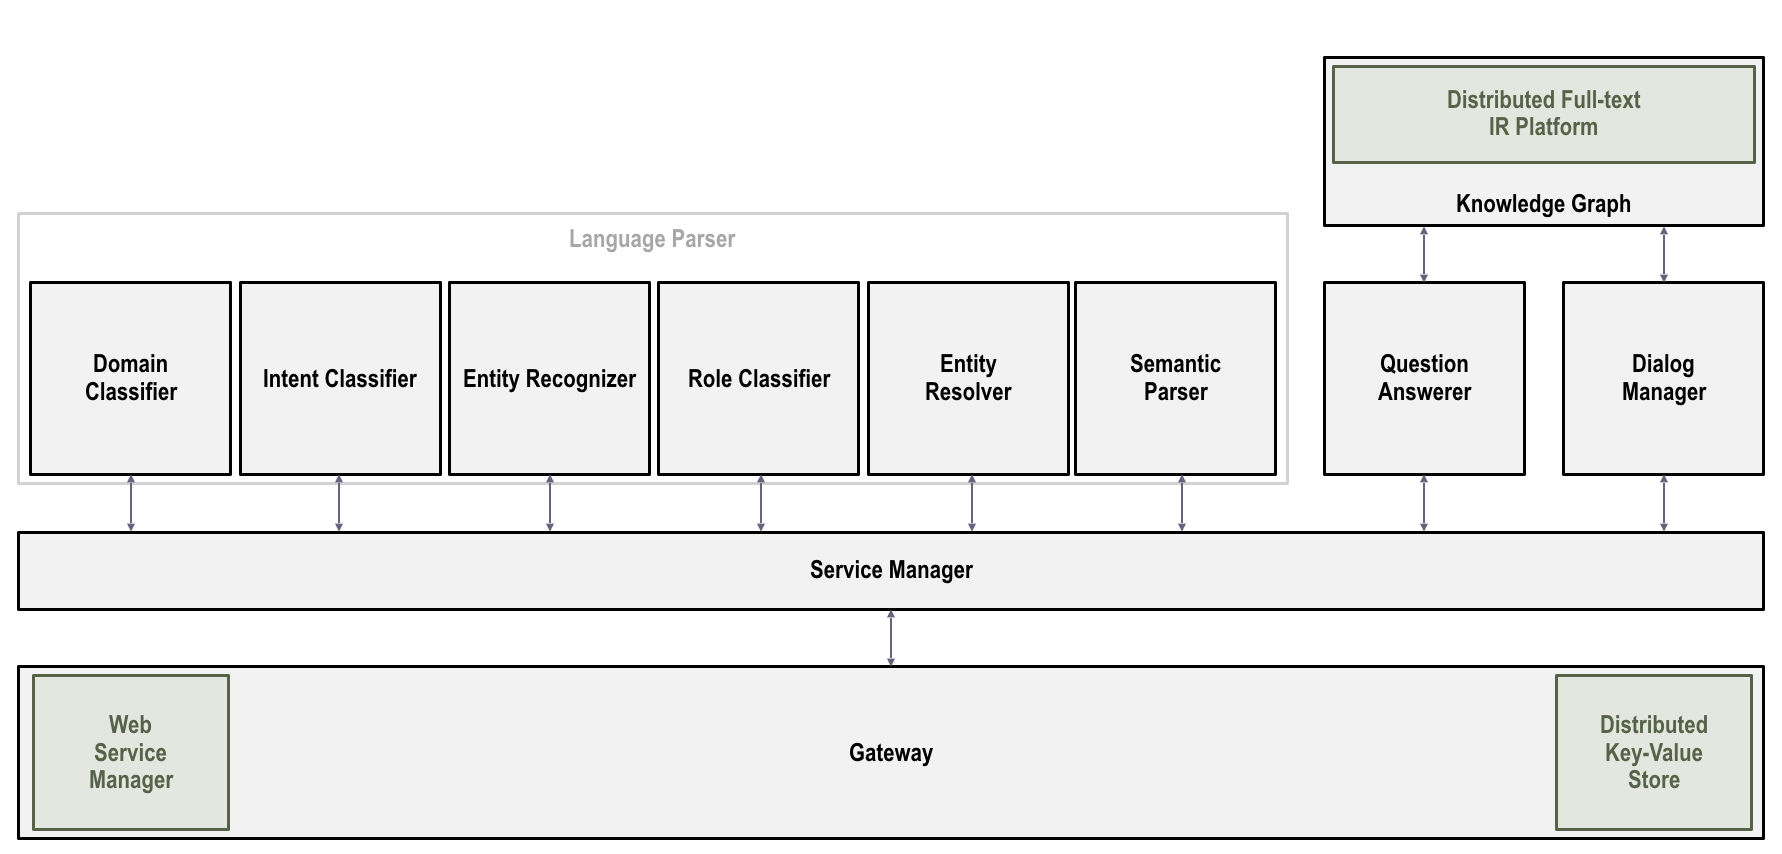
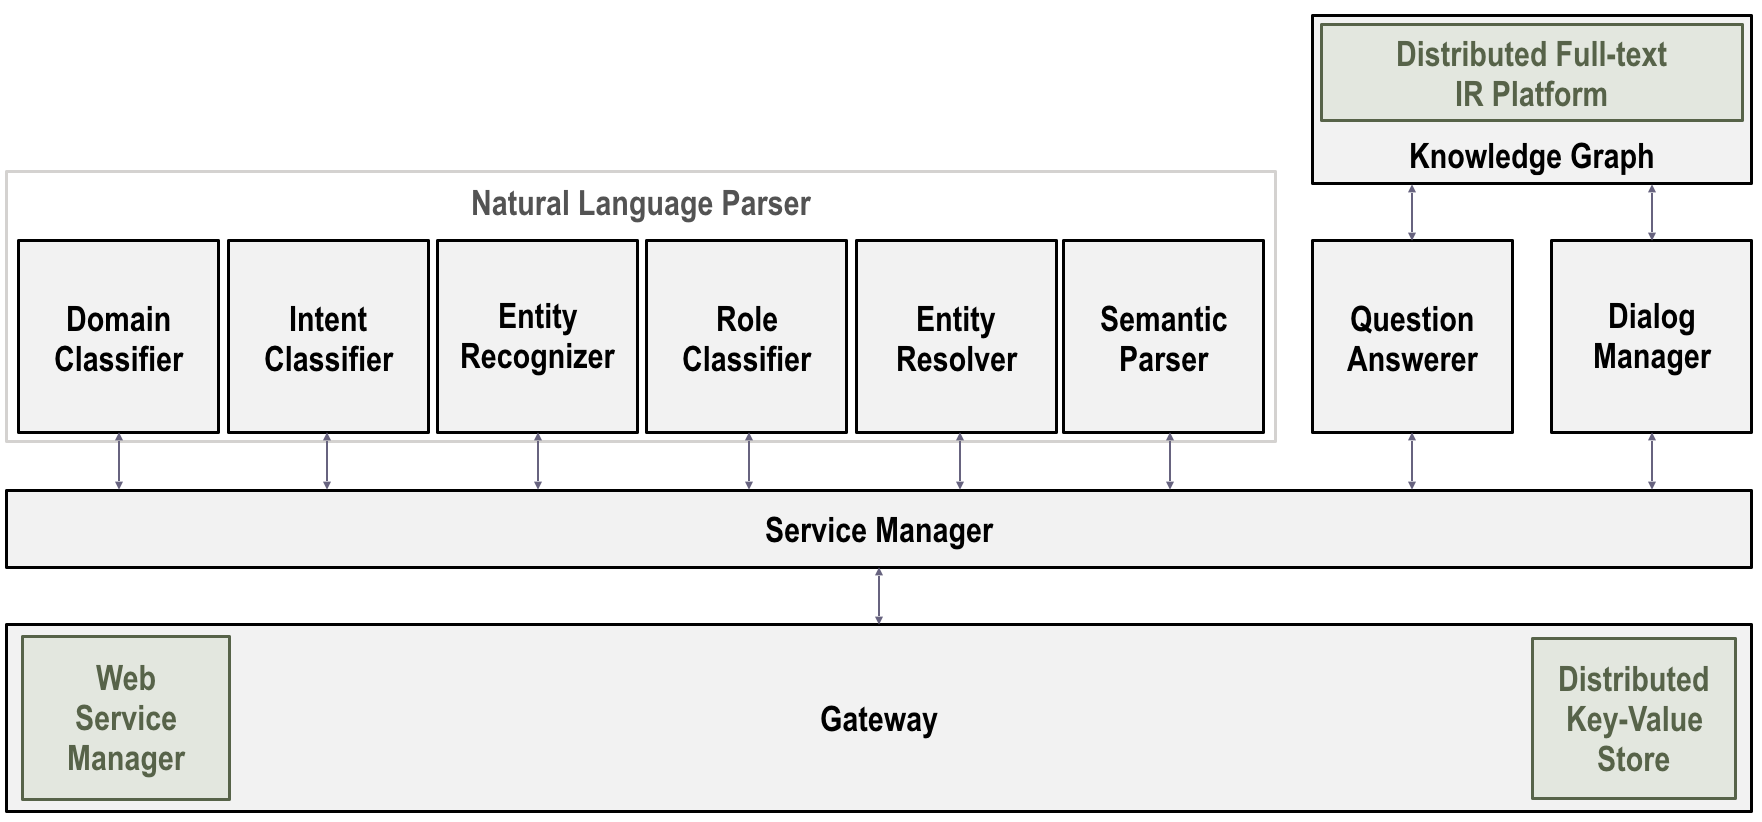
Changes to index and anatomy pages. Added some images.

Changed region(s): [[0.0, 0.0, 0.9989, 1.0], [0.4682, 0.8516, 0.5306, 0.9124]]

diff --git a/docs/source/anatomy.rst b/docs/source/anatomy.rst
@@ -6,7 +6,7 @@ The MindMeld deep-domain conversational AI platform consists of several state-of
 .. image:: images/architecture.png
    :target: _images/architecture.png
 
-This chapter will introduce you to the each of the components in the MindMeld toolkit.
+This chapter will introduce you to the each of the modules in the MindMeld toolkit.
 
 
 Natural Language Parser
@@ -16,12 +16,14 @@ The Natural Language Parser is tasked with comprehending the user's natural lang
 
 E.g. If the user says "A medium soy milk latte with hazelnut and caramel syrups and two slices of lemon bread.", the parser would produce:
 
-[ Insert Image Clipped from http://demo.mindmeld.com/demo.html ]
+.. image:: images/parser.png
+   :target: _images/parser.png
 
 The MindMeld Parser analyzes the input using a hierarchy of classification models, with each model assisting the next tier of models by narrowing the problem scope, or in other words, by successively narrowing down the "search space". 
 
-[ Insert Image of Domain -> Intent -> Entities ]
-
+.. image:: images/classifier_hierarchy.png
+   :target: _images/classifier_hierarchy.png
+   :scale: 75%
 
 We next take a look at each of the classifiers within the MindMeld Parser one by one. 
 
@@ -38,7 +40,7 @@ The number of domains thus depends on the scope of your application. Personal as
 
 The Domain Classifier uses a machine-learned text classification model trained by providing many examples of user queries along with their true domain labels. At runtime, the Classifier analyzes the user input and assigns it a domain, based on the most likely one predicted by the trained model.
 
-See chapter [] for a discussion on generating the labelled data for training. In chapter [], we will take a closer look at training and evaluating the domain classification model.  
+See the chapter on :doc:`Training data </training_data>` for a discussion on generating the labelled data for training. In the :doc:`Building The Domain Classifier </domain_classification>` chapter, we will take a closer look at training and evaluating the domain classification model.  
 
 
 Intent Classifier
@@ -57,27 +59,41 @@ By convention, we use verbs to name our intents as they inherently refer to an a
 
 The Intent Classifier, similar to the Domain Classifier uses a machine-learned text classification model that is trained using labelled training data. We train one intent classification model per domain and the Classifier at runtime chooses the appropriate model, based on the predicted domain for the input query. The output of the Intent Classifier is an intent label which allows us to identify the exact task that the user is trying to solve.
 
-We describe how to build intent classification models in chapter [].
+We describe how to build intent classification models in :doc:`Building the Intent Classifier </intent_classification>`.
 
 
 Entity Recognizer
 ~~~~~~~~~~~~~~~~~
 
-Once the user intent has been established by the Intent Classifier, the next step is to identify all the entities relevant to satisfying the user intent. An "entity" is any important word or phrase that provides further information about the user's end goal. For instance, if the user intent was to search for a movie, the relevant entities would be things like movie titles, genre, cast names, etc. If the intent was to update the thermostat, the entity would be the numerical value of the temperature to set the thermostat to.
+After the user intent has been established by the Intent Classifier, the next step is to identify all the entities relevant to satisfying the user intent. An "entity" is any important word or phrase that provides further information about the user's end goal. For instance, if the user intent was to search for a movie, the relevant entities would be things like movie titles, genre, cast names, etc. If the intent was to update the thermostat, the entity would be the numerical value of the temperature to set the thermostat to.
 
 For programmers, a good analogy is to think of intents as functions and entities as the arguments you pass into the function call. E.g. set_thermostat(temperature = 70), get_weather_info(city = 'San Francisco'), find_movies(release_year = '2016', actor = 'Tom Hanks', genre = 'Drama').
 
-The Entity Recognizer's job is to analyze the user input and extract all the entities relevant to the current intent. It has to accomplish two things: 
+The Entity Recognizer's job is to analyze the user input and extract all the entities relevant to the current intent. In NLP literature, this problem is commonly referred to as `Named Entity Recognition <https://en.wikipedia.org/wiki/Named-entity_recognition>`_. 
+
+The problem essentially consists of two parts:
+
 1. Detect which spans of words within the input text correspond to entities of interest
 2. Classify those detected text spans into a pre-determined set of entity types
 
-The Entity Recognizer uses a machine-learned sequence labeling model to look at each word in the input query sequentially and assign a label to it. It is trained using labeled training data where queries are annotated to mark entity spans along with their corresponding entity types. We train a separate entity recognition model for each user intent since the types of entities required to satisfy the end goal vary from intent to intent. We will get into the details of build entity recognition models in chapter [].
+The Entity Recognizer uses a machine-learned sequence labeling model to look at each word in the input query sequentially and assign a label to it. It is trained using labeled training data where queries are annotated to mark entity spans along with their corresponding entity types. We train a separate entity recognition model for each user intent since the types of entities required to satisfy the end goal vary from intent to intent. We will get into the details of build entity recognition models in :doc:`Building the Entity Recognizer </entity_recognition>`.
 
- At runtime, the Entity Recognizer loads up and uses the appropriate model, based on the predicted intent for the query. Once this step is done and we've extracted the relevant entities, we finally have all the raw ingredients required to make sense out of the user input. It's now a question of putting those together to build a semantic representation that encapsulates all the information necessary to execute the user's intended action.
+At runtime, the Entity Recognizer loads up and uses the appropriate model, based on the predicted intent for the query. Once this step is done and we've extracted the relevant entities, we finally have all the raw ingredients required to make sense out of the user input. It's now a question of putting those together to build a semantic representation that encapsulates all the information necessary to execute the user's intended action.
 
 
-Entity Resolution
-~~~~~~~~~~~~~~~~~
+Entity Resolver
+~~~~~~~~~~~~~~~
+
+The Entity Resolver transforms the entity spans extracted by the Entity Recognizer into canonical forms that can be looked up in a catalog or a knowledge base. For instance, the extracted entity "lemon bread" may get resolved to "Iced Lemon Pound Cake", "SF" may get resolved to "San Francisco" and so on. This problem of entity resolution is also referred to as `Entity Linking <https://en.wikipedia.org/wiki/Entity_linking>`_ in NLP literature.
+
+The MindMeld Entity Resolver uses a resource called an Entity Map to transform extracted entities into their desired normalized forms. The chapters on :doc:`Defining the Entity Map </entity_map>` and :doc:`Building the Entity Resolver </entity_resolution>` provide more details on the entity resolution step.
+
+
+Role Classifier
+~~~~~~~~~~~~~~~
+
+
+
 
 
 Semantic Parsing
@@ -97,22 +113,10 @@ The Dialogue Manager is responsible for directing the flow of the conversation. 
 Question Answerer
 -----------------
 
-Question Answering (QA) is a computer science discipline within the fields of information retrieval and natural language processing (NLP), which is concerned with building systems that automatically answer questions posed by humans in a natural language.
 
-A QA implementation, usually a computer program, may construct its answers by querying a structured database of knowledge or information, usually a knowledge base. More commonly, QA systems can pull answers from an unstructured collection of natural language documents.
-
-Some examples of natural language document collections used for QA systems include:
-
-* a local collection of reference texts
-* internal organization documents and web pages
-* compiled newswire reports
-* a set of Wikipedia pages
-* a subset of World Wide Web pages
-
-QA research attempts to deal with a wide range of question types including: fact, list, definition, How, Why, hypothetical, semantically constrained, and cross-lingual questions.
 
 
 Natural Language Generator
 --------------------------
 
-The Natural Language Generator (NLG) component frames the natural language response to be output to the user. It receives information about how the user's intent has been processed and uses that in conjunction with a set of pre-defined templates to construct a fluent natural language text response.
+The Natural Language Generator (NLG) component frames the natural language response to be output to the user. It receives information about how the user's intent has been processed and uses that in conjunction with a set of pre-defined templates to construct a fluent natural language text response. We will go into further details in :doc:`Building the NLG </nlg>` chapter.

diff --git a/docs/source/index.rst b/docs/source/index.rst
@@ -1,18 +1,9 @@
 Welcome to the MindMeld Workbench
 =================================
 
-The MindMeld Workbench library provides a set of Natural Language Processing tools that can be used to build a Deep Domain Conversational AI system, capable of intelligently conversing with users in natural language. The library enables machine learning engineers and data scientists to quickly build, test and deploy conversational user interfaces across a wide range of platforms.
+The MindMeld Workbench python package provides a set of Natural Language Processing tools that can be used to build Deep Domain Conversational AI systems, capable of intelligently conversing with users in natural language. The package enables machine learning engineers and data scientists to quickly build, test and deploy conversational user interfaces across a wide range of platforms.
 
-Choose MindMeld Workbench if you need:
-
-* An integrated toolkit with a good range of grammatical analysis tools
-* Fast, reliable analysis of arbitrary texts
-* The overall highest quality text analytics
-* Support for a number of major (human) languages
-* Interfaces available for various major modern programming languages
-* Ability to run as a simple web service
-
-Along with easy-to-use tools for building an intelligent conversational interface, we also provide detailed tutorials explaining the step-by-step process and describe best practices for building such an application. Our user guide will walk you through the various machine learning components and how to train, test and optimize each of them to achieve the high level of accuracy required for user-facing commercial applications.
+Along with easy-to-use modules for building an intelligent conversational interface, we also provide detailed tutorials explaining the step-by-step process and best practices for building such an application. Our user guide will walk you through the various machine learning components and how to train, test and optimize each of them to achieve the high level of accuracy required for user-facing commercial applications.
 
 Our user guide is organized into three sections:
 
